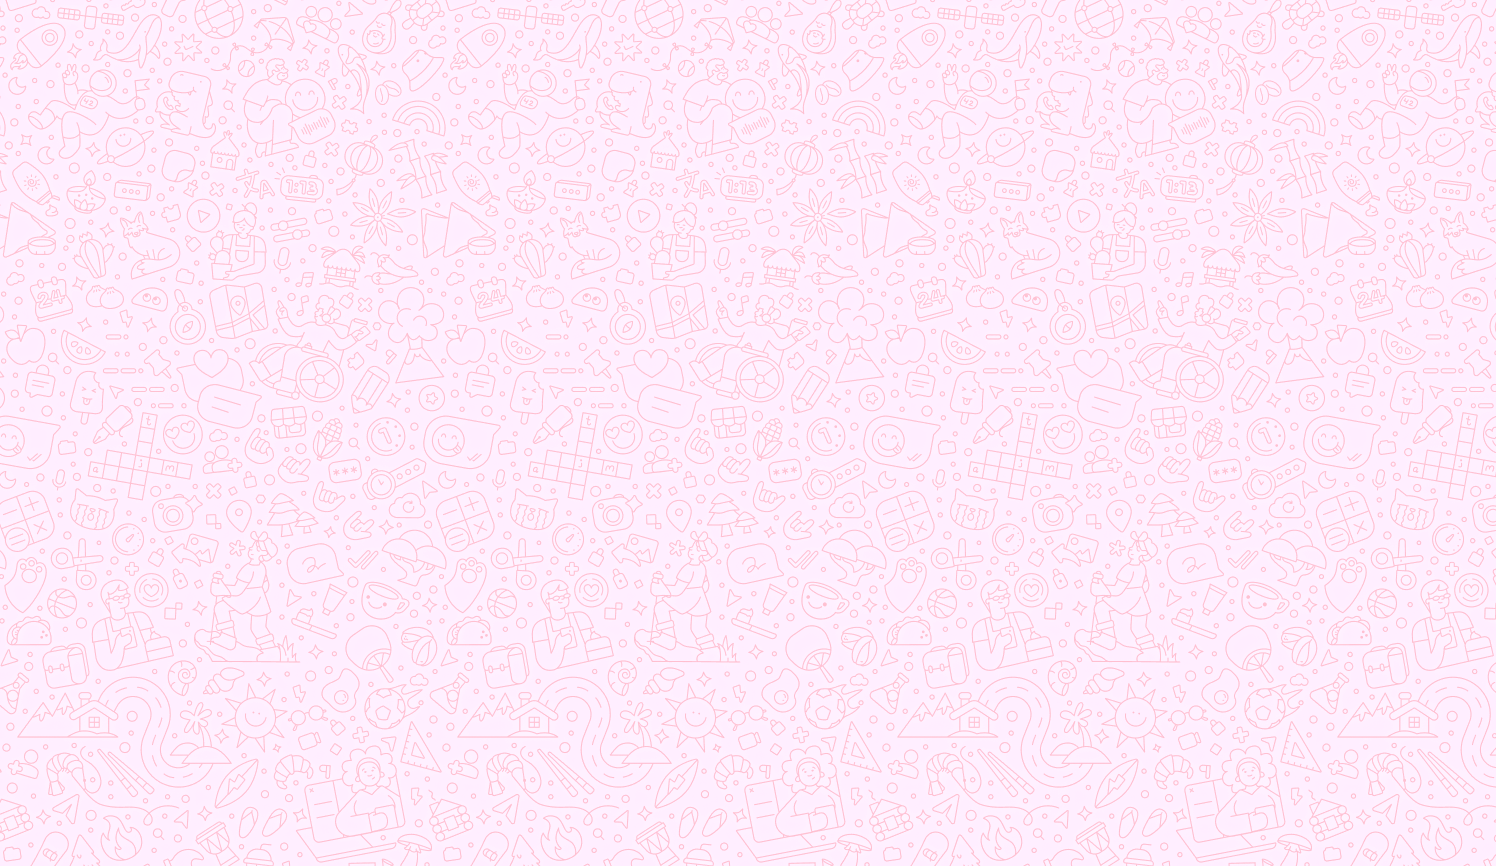
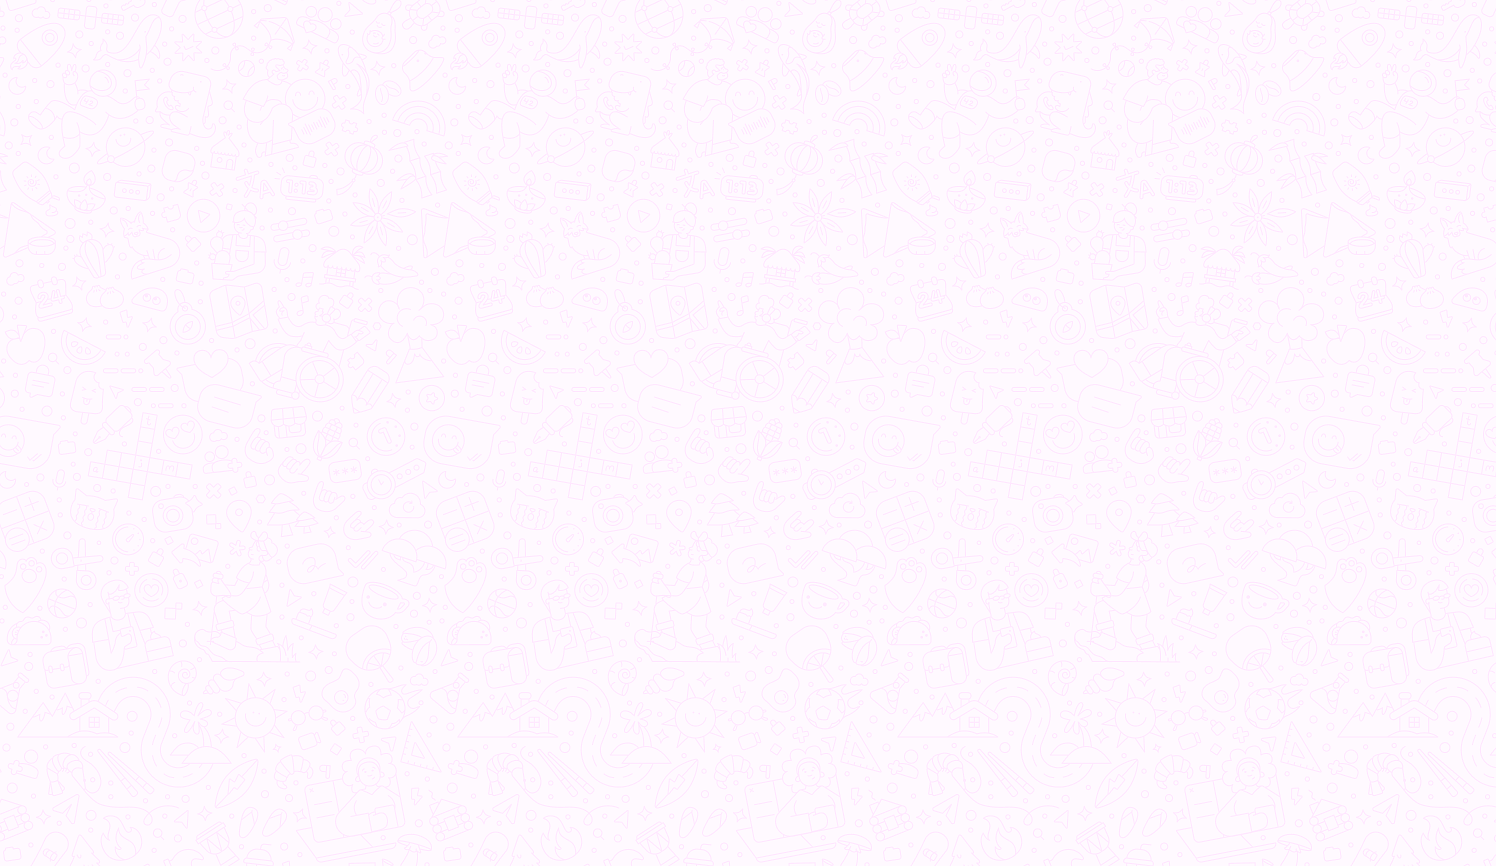
feat: add responsive 404 error page with interactive messages

diff --git a/src/app/not-found.tsx b/src/app/not-found.tsx
@@ -1,0 +1,194 @@
+'use client';
+
+import { useState, useEffect } from 'react';
+import { motion } from 'framer-motion';
+import { Button } from '@/components/ui/button';
+import { ChevronLeft, Home, SendHorizontal } from 'lucide-react';
+import { useRouter } from 'next/navigation';
+import { ChatList } from '@/components/chat-list';
+import { chats } from '@/content/chatData';
+
+export default function NotFound() {
+    const router = useRouter();
+    const [isMobile, setIsMobile] = useState(false);
+
+    useEffect(() => {
+        const checkMobile = () => {
+            setIsMobile(window.innerWidth < 768);
+        };
+
+        checkMobile();
+        window.addEventListener('resize', checkMobile);
+
+        return () => {
+            window.removeEventListener('resize', checkMobile);
+        };
+    }, []);
+
+    const handleChatSelect = (chatId: string) => {
+        router.push(`/?chat=${chatId}`);
+    };
+
+    if (isMobile) {
+        return (
+            <div className="h-screen flex flex-col bg-background">
+                <div className="flex items-center justify-between p-4 bg-background shadow-sm border-b border-border">
+                    <div className="flex items-center space-x-3">
+                        <Button variant="ghost" size="sm" onClick={() => router.push('/')}>
+                            <ChevronLeft className="w-4 h-4" />
+                        </Button>
+                        <div className="w-10 h-10 bg-gradient-to-br from-pink-200 to-purple-300 rounded-full flex items-center justify-center">
+                            <span className="text-sm font-bold text-white">E</span>
+                        </div>
+                        <div>
+                            <h1 className="font-semibold text-foreground">Error 404</h1>
+                            <p className="text-xs text-muted-foreground">Página no encontrada</p>
+                        </div>
+                    </div>
+                </div>
+
+                <div
+                    className="flex-1 overflow-y-auto p-4 space-y-4"
+                    style={{
+                        backgroundImage: `url('/fondo.png')`,
+                        backgroundSize: 'auto',
+                        backgroundPosition: 'top left',
+                        backgroundRepeat: 'repeat',
+                        backgroundAttachment: 'local',
+                    }}
+                >
+                    {renderErrorMessages()}
+                </div>
+
+                <div className="p-4 border-t border-border bg-background">
+                    <div className="flex items-center gap-2">
+                        <input
+                            type="text"
+                            value=""
+                            placeholder="Escribe un mensaje..."
+                            className="flex-1 p-3 rounded-full border border-border bg-muted/50 text-sm focus:outline-none focus:ring-2 focus:ring-primary/20"
+                            disabled={true}
+                        />
+                        <Button size="sm" className="rounded-full w-10 h-10 p-0" disabled={true}>
+                            <SendHorizontal className="w-4 h-4 text-rose-400" />
+                        </Button>
+                    </div>
+                </div>
+            </div>
+        );
+    }
+
+    return (
+        <div className="h-screen flex bg-background">
+            <div className="w-1/3 border-r border-border">
+                <ChatList chats={chats} onSelectChat={handleChatSelect} />
+            </div>
+
+            <div className="flex-1 flex flex-col">
+                <div className="flex items-center justify-between p-4 bg-background shadow-sm border-b border-border">
+                    <div className="flex items-center space-x-3">
+                        <div className="w-10 h-10 bg-gradient-to-br from-pink-200 to-purple-300 rounded-full flex items-center justify-center">
+                            <span className="text-sm font-bold text-white">E</span>
+                        </div>
+                        <div>
+                            <h1 className="font-semibold text-foreground">Error 404</h1>
+                            <p className="text-xs text-muted-foreground">Página no encontrada</p>
+                        </div>
+                    </div>
+                </div>
+
+                <div
+                    className="flex-1 overflow-y-auto p-4 space-y-4"
+                    style={{
+                        backgroundImage: `url('/fondo.png')`,
+                        backgroundSize: 'auto',
+                        backgroundPosition: 'top left',
+                        backgroundRepeat: 'repeat',
+                        backgroundAttachment: 'local',
+                    }}
+                >
+                    {renderErrorMessages()}
+                </div>
+
+                <div className="p-4 border-t border-border bg-background">
+                    <div className="flex items-center gap-2">
+                        <input
+                            type="text"
+                            value=""
+                            placeholder="Escribe un mensaje..."
+                            className="flex-1 p-3 rounded-full border border-border bg-muted/50 text-sm focus:outline-none focus:ring-2 focus:ring-primary/20"
+                            disabled={true}
+                        />
+                        <Button size="sm" className="rounded-full w-10 h-10 p-0" disabled={true}>
+                            <SendHorizontal className="w-4 h-4 text-rose-400" />
+                        </Button>
+                    </div>
+                </div>
+            </div>
+        </div>
+    );
+
+    function renderErrorMessages() {
+        return (
+            <>
+                <motion.div
+                    initial={{ opacity: 0, y: 20 }}
+                    animate={{ opacity: 1, y: 0 }}
+                    transition={{ duration: 0.6, delay: 0.2 }}
+                    className="flex justify-start"
+                >
+                    <div className="max-w-xs bg-card rounded-2xl rounded-tl-md p-4 shadow-sm">
+                        <p className="text-card-foreground text-sm">¡Hola! 👋</p>
+                    </div>
+                </motion.div>
+
+                <motion.div
+                    initial={{ opacity: 0, y: 20 }}
+                    animate={{ opacity: 1, y: 0 }}
+                    transition={{ duration: 0.6, delay: 0.4 }}
+                    className="flex justify-start"
+                >
+                    <div className="max-w-sm bg-card rounded-2xl rounded-tl-md p-4 shadow-sm">
+                        <p className="text-card-foreground text-sm">Parece que la página que buscas no existe. 🤔</p>
+                    </div>
+                </motion.div>
+
+                <motion.div
+                    initial={{ opacity: 0, y: 20 }}
+                    animate={{ opacity: 1, y: 0 }}
+                    transition={{ duration: 0.6, delay: 0.6 }}
+                    className="flex justify-end"
+                >
+                    <div className="max-w-xs bg-primary rounded-2xl rounded-tr-md p-4 shadow-sm">
+                        <p className="text-primary-foreground text-sm">¿Error 404? 😅</p>
+                    </div>
+                </motion.div>
+
+                <motion.div
+                    initial={{ opacity: 0, y: 20 }}
+                    animate={{ opacity: 1, y: 0 }}
+                    transition={{ duration: 0.6, delay: 1.0 }}
+                    className="flex justify-start"
+                >
+                    <div className="max-w-sm bg-card rounded-2xl rounded-tl-md p-4 shadow-sm">
+                        <p className="text-card-foreground text-sm mb-3">
+                            ¡Exacto! Pero no te preocupes, puedo ayudarte a encontrar lo que buscas. 😊
+                        </p>
+
+                        <div className="space-y-2">
+                            <Button
+                                variant="outline"
+                                size="sm"
+                                className="w-full text-left justify-start bg-white/90 hover:bg-white text-gray-700 border-white/50"
+                                onClick={() => router.push('/')}
+                            >
+                                <Home className="w-4 h-4 mr-2" />
+                                Ir al inicio
+                            </Button>
+                        </div>
+                    </div>
+                </motion.div>
+            </>
+        );
+    }
+}
